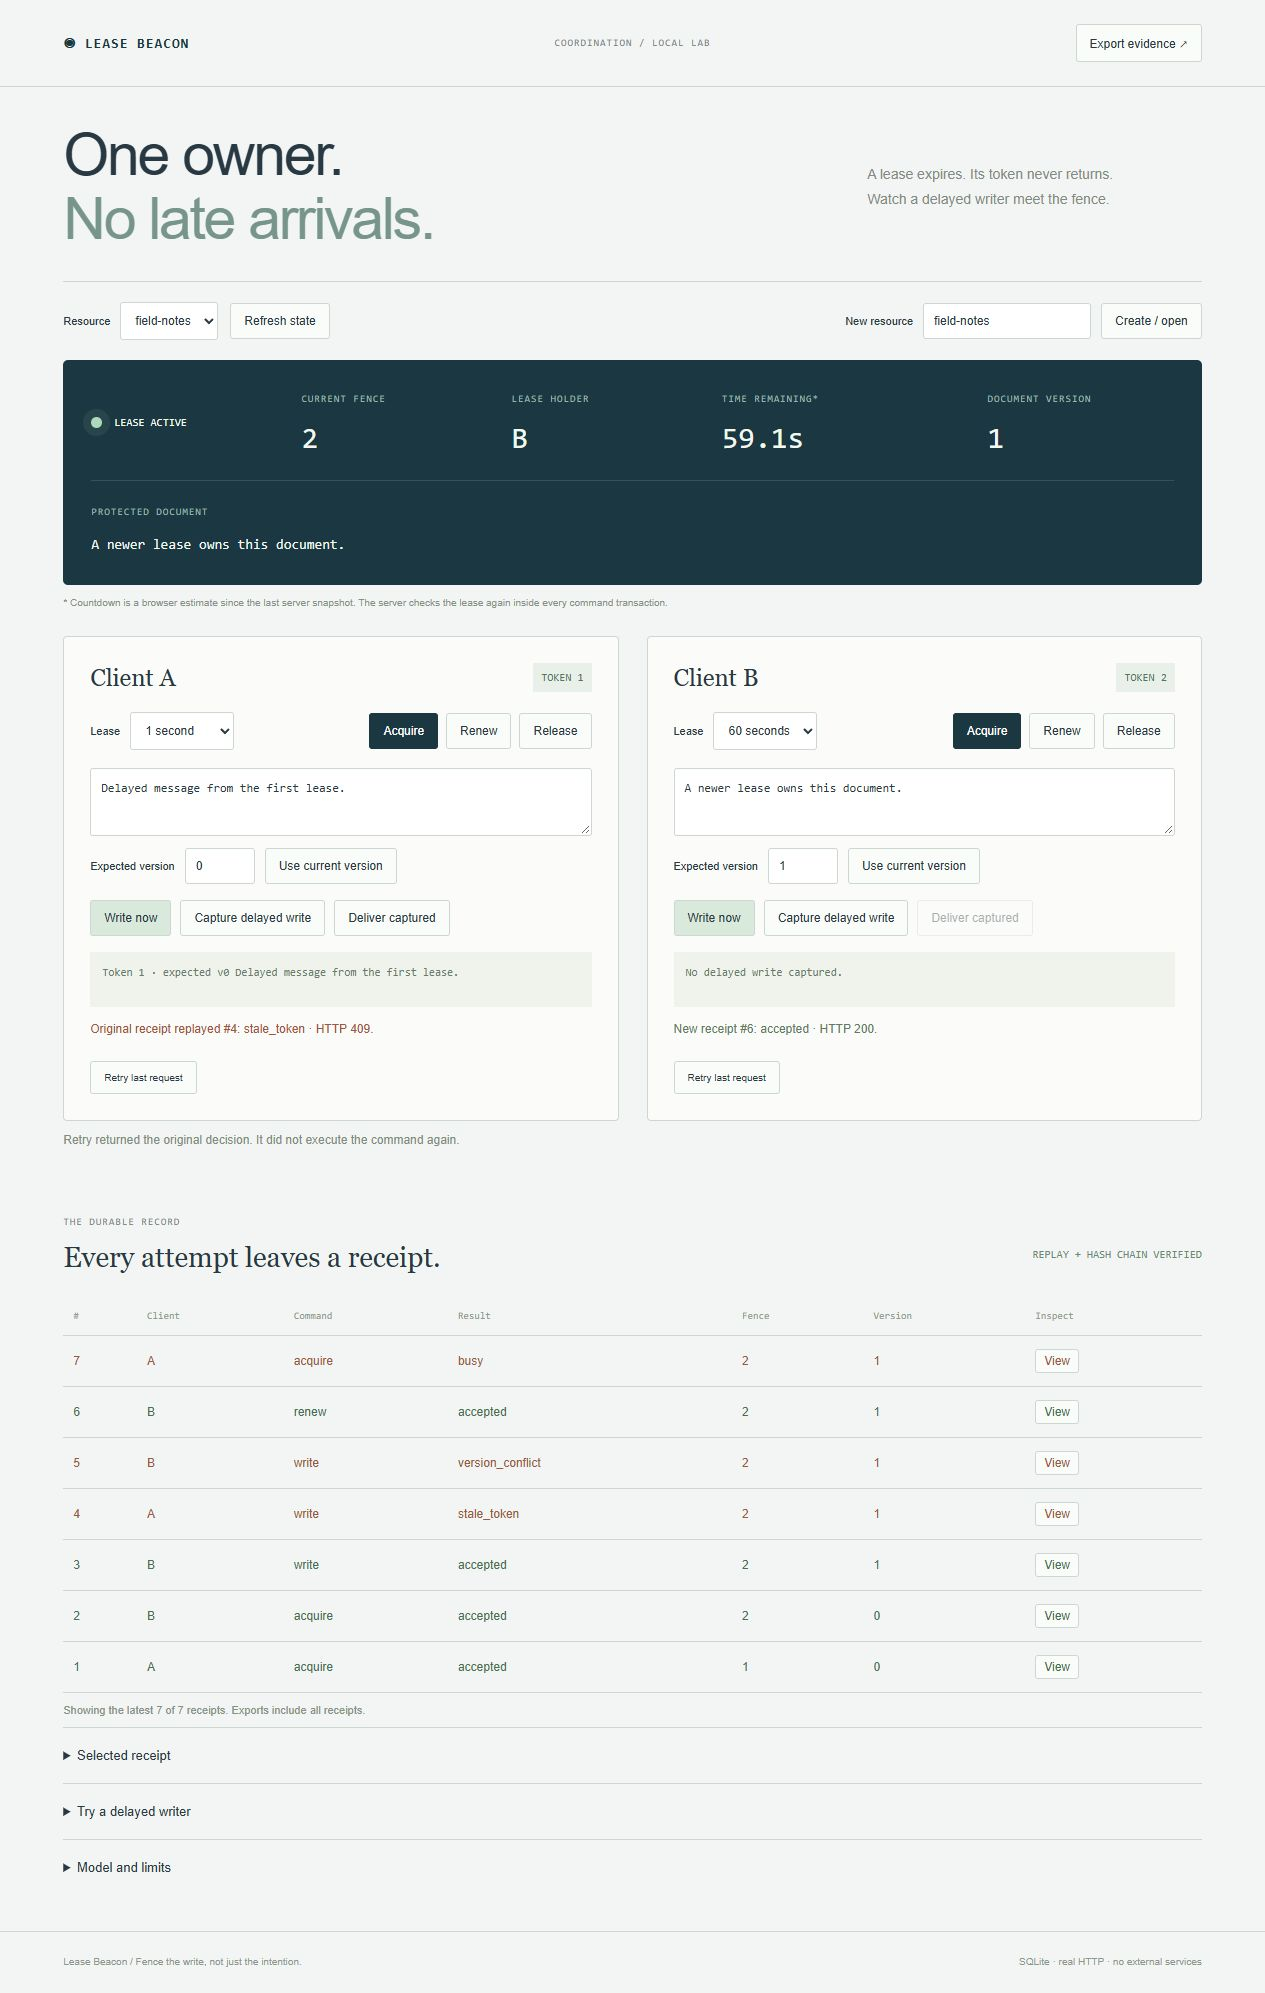
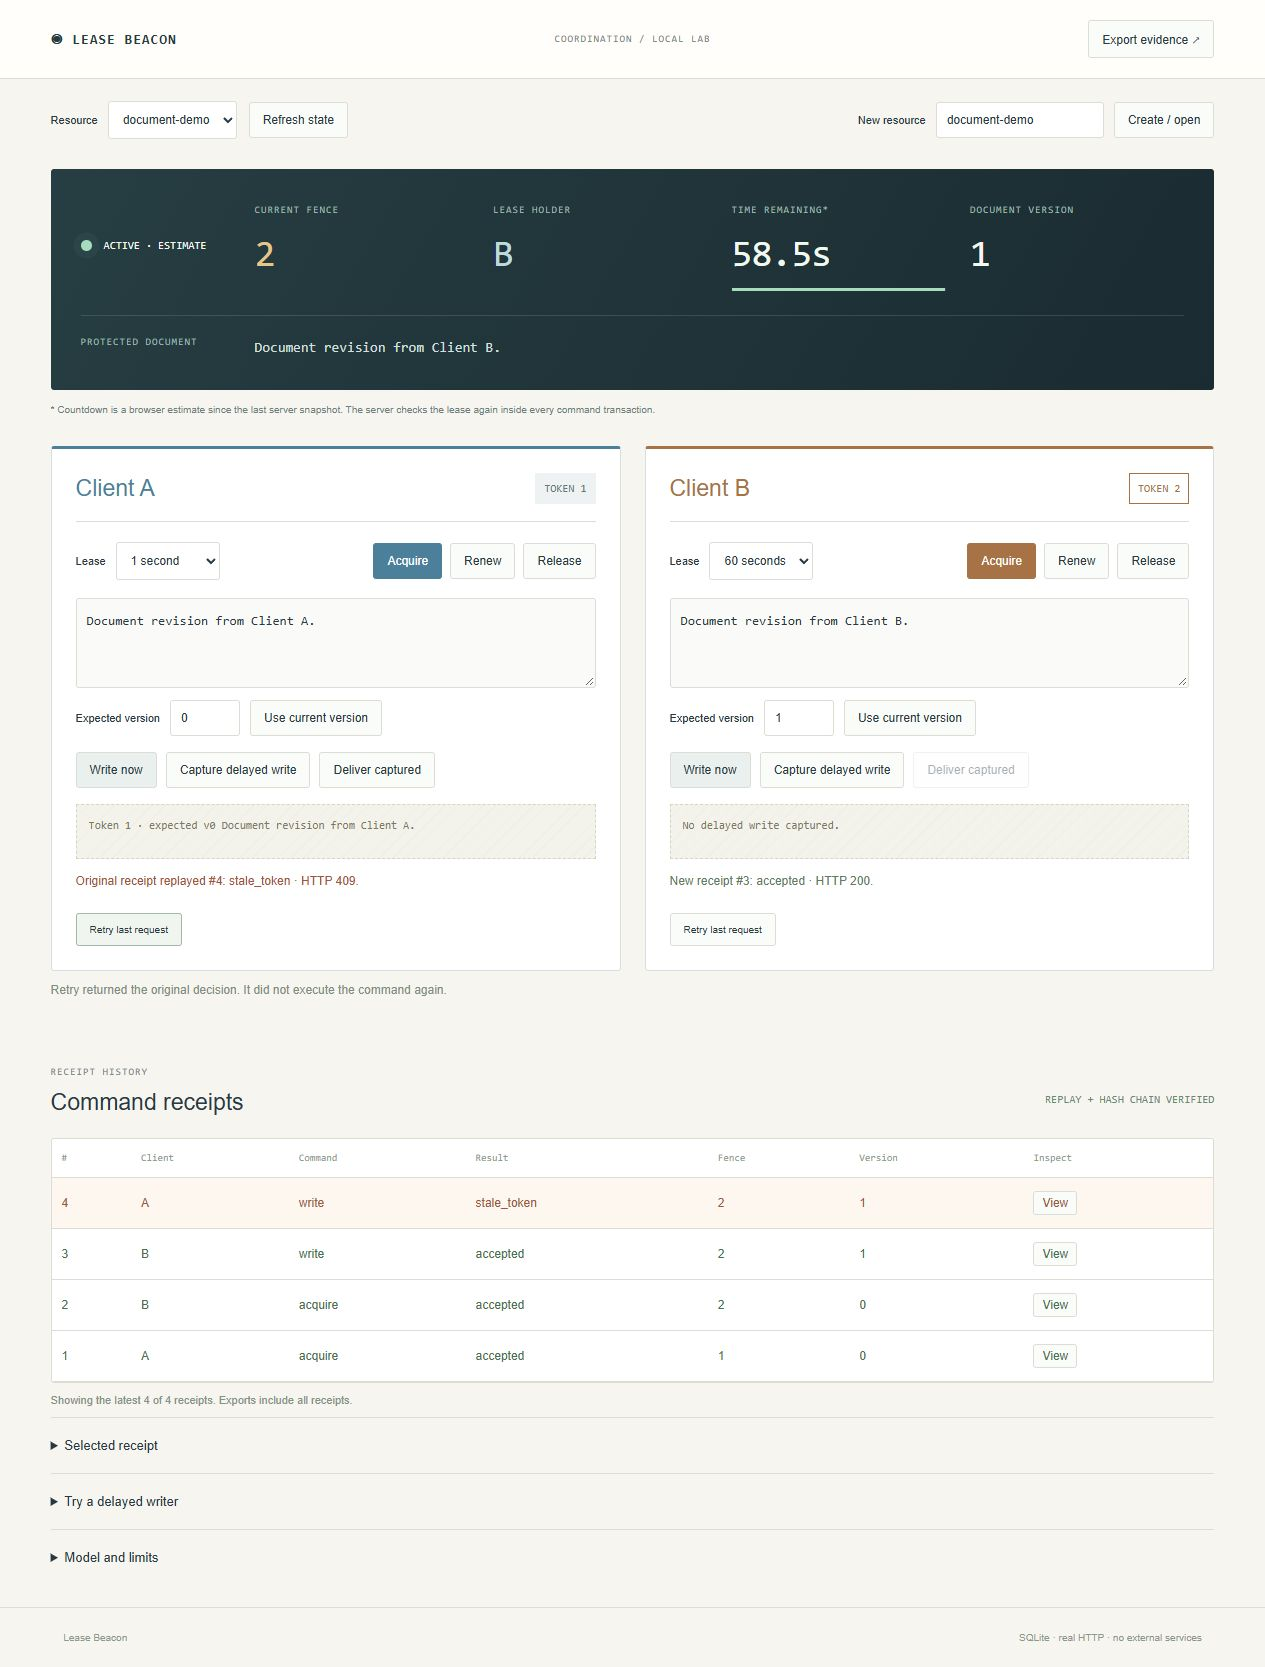
Clarify lease authority with client colors and estimated expiry display

diff --git a/app.js b/app.js
@@ -30,7 +30,8 @@ async function api(path, body) {
 function clientUI(c) {
   const section = document.createElement("section");
   section.className = "client";
-  section.innerHTML = `<div class="client-head"><h2>Client ${c.holder}</h2><span class="token" id="token-${c.holder}">NO TOKEN</span></div><div class="lease-actions"><label>Lease<select id="ttl-${c.holder}"><option value="1000">1 second</option><option value="5000" selected>5 seconds</option><option value="15000">15 seconds</option><option value="60000">60 seconds</option></select></label><button data-action="acquire">Acquire</button><button data-action="renew">Renew</button><button data-action="release">Release</button></div><textarea id="value-${c.holder}" aria-label="Client ${c.holder} document value" maxlength="2048">A note from Client ${c.holder}.</textarea><div class="version-controls"><label>Expected version<input id="expected-${c.holder}" type="number" min="0" max="1000000000" value="0" aria-label="Client ${c.holder} expected version"></label><button data-action="sync">Use current version</button></div><div class="write-actions"><button data-action="write">Write now</button><button data-action="capture">Capture delayed write</button><button data-action="deliver">Deliver captured</button></div><div class="capture" id="captured-${c.holder}">No delayed write captured.</div><p class="last-result" id="result-${c.holder}"></p><footer><button data-action="retry">Retry last request</button></footer>`;
+  section.dataset.client = c.holder;
+  section.innerHTML = `<div class="client-head"><h2>Client ${c.holder}</h2><span class="token" id="token-${c.holder}">NO TOKEN</span></div><div class="lease-actions"><label>Lease<select id="ttl-${c.holder}"><option value="1000">1 second</option><option value="5000" selected>5 seconds</option><option value="15000">15 seconds</option><option value="60000">60 seconds</option></select></label><button data-action="acquire">Acquire</button><button data-action="renew">Renew</button><button data-action="release">Release</button></div><textarea id="value-${c.holder}" aria-label="Client ${c.holder} document value" maxlength="2048">Document revision from Client ${c.holder}.</textarea><div class="version-controls"><label>Expected version<input id="expected-${c.holder}" type="number" min="0" max="1000000000" value="0" aria-label="Client ${c.holder} expected version"></label><button data-action="sync">Use current version</button></div><div class="write-actions"><button data-action="write">Write now</button><button data-action="capture">Capture delayed write</button><button data-action="deliver">Deliver captured</button></div><div class="capture" id="captured-${c.holder}">No delayed write captured.</div><p class="last-result" id="result-${c.holder}"></p><footer><button data-action="retry">Retry last request</button></footer>`;
   for (const b of section.querySelectorAll("[data-action]"))
     b.onclick = () => act(c, b.dataset.action);
   c.section = section;
@@ -65,8 +66,21 @@ function countdown() {
     snapshot.remaining_ms - (performance.now() - received),
   );
   $("remaining").textContent = (remaining / 1000).toFixed(1) + "s";
-  $("lease-state").textContent =
-    snapshot.state.holder && remaining > 0 ? "LEASE ACTIVE" : "AVAILABLE";
+  const active = Boolean(snapshot.state.holder && remaining > 0);
+  $("lease-state").textContent = active
+    ? "ACTIVE · ESTIMATE"
+    : snapshot.state.holder
+      ? "EXPIRED · ESTIMATE"
+      : "NO LEASE";
+  document.querySelector(".authority").dataset.active = String(active);
+  $("lease-fill").style.width =
+    `${snapshot.remaining_ms > 0 ? (100 * remaining) / snapshot.remaining_ms : 0}%`;
+  for (const c of clients)
+    c.section.dataset.owner = String(
+      active &&
+        snapshot.state.holder === c.holder &&
+        snapshot.state.fence === c.token,
+    );
 }
 setInterval(countdown, 200);
 function render() {

diff --git a/style.css b/style.css
@@ -418,3 +418,192 @@ body > footer {
     letter-spacing: -1px;
   }
 }
+
+/* Shared authority and independent client consoles */
+:root {
+  background: #f6f5f0;
+  --line: #dcded6;
+  --ink: #233b41;
+}
+header {
+  background: #fffefa;
+  padding: 20px 4%;
+}
+main {
+  padding: 22px 4%;
+}
+.resource-bar {
+  border-top: 0;
+  padding-top: 0;
+  margin-bottom: 10px;
+}
+.authority {
+  grid-template-columns: 150px repeat(4, minmax(0, 1fr));
+  background: linear-gradient(120deg, #223d43, #172b31);
+  border-radius: 3px;
+  gap: 24px;
+  padding: 30px;
+}
+.authority strong {
+  font-size: 38px;
+  letter-spacing: -1px;
+}
+#fence {
+  color: #e7c98a;
+}
+#holder {
+  color: #bad9dc;
+}
+.beacon span {
+  background: #7f9090;
+  box-shadow: none;
+}
+.authority[data-active="true"] .beacon span {
+  background: #9bddbd;
+  animation: lease-pulse 2s ease-in-out infinite;
+}
+@keyframes lease-pulse {
+  0%,
+  100% {
+    box-shadow: 0 0 0 5px #9bddbd12;
+  }
+  50% {
+    box-shadow: 0 0 0 10px #9bddbd08;
+  }
+}
+.lease-track {
+  height: 3px;
+  background: #ffffff18;
+  margin-top: 12px;
+  overflow: hidden;
+}
+#lease-fill {
+  height: 100%;
+  width: 0;
+  background: #9bddbd;
+  transition: width 0.2s linear;
+}
+.document {
+  display: grid;
+  grid-template-columns: 150px 1fr;
+  gap: 24px;
+  align-items: start;
+}
+.document pre {
+  margin: 0;
+  color: #d1e0df;
+}
+.clock-note {
+  color: #6e7e7e;
+  line-height: 1.6;
+}
+.clients {
+  gap: 24px;
+}
+.client {
+  --client-accent: #427f9a;
+  padding: 24px;
+  border-radius: 3px;
+  border: 1px solid #d7dee0;
+  border-top: 3px solid var(--client-accent);
+  background: #fff;
+}
+.client[data-client="B"] {
+  --client-accent: #ac7545;
+}
+.client-head {
+  padding-bottom: 17px;
+  border-bottom: 1px solid var(--line);
+}
+.client-head h2 {
+  font:
+    500 23px Arial,
+    sans-serif;
+  color: var(--client-accent);
+}
+.token {
+  background: #eff2f3;
+  color: #637879;
+  border: 1px solid transparent;
+}
+.client[data-owner="true"] .token {
+  border-color: var(--client-accent);
+  color: var(--client-accent);
+  background: #fff;
+}
+.client textarea {
+  min-height: 90px;
+  background: #fafbf9;
+  font-size: 13px;
+  line-height: 1.8;
+}
+.lease-actions button:first-of-type {
+  background: var(--client-accent);
+  border-color: var(--client-accent);
+}
+.capture {
+  background: repeating-linear-gradient(135deg, #f3f2eb 0 8px, #efeee7 8px 9px);
+  border: 1px dashed #d8d5c6;
+  color: #7d7966;
+}
+.write-actions button:first-child {
+  background: #e9f0ed;
+}
+.section-head h2 {
+  font:
+    500 23px Arial,
+    sans-serif;
+  margin: 10px 0 22px;
+}
+.table-wrap {
+  background: #fff;
+  border: 1px solid var(--line);
+  border-radius: 3px;
+}
+.denied-row {
+  background: #fff7f0;
+}
+button {
+  transition:
+    background 0.16s,
+    border-color 0.16s;
+}
+.version-controls {
+  flex-wrap: wrap;
+}
+@media (max-width: 900px) {
+  .authority {
+    grid-template-columns: repeat(3, minmax(0, 1fr));
+  }
+  .document {
+    grid-template-columns: 1fr;
+    gap: 12px;
+  }
+}
+@media (max-width: 600px) {
+  .authority {
+    grid-template-columns: 1fr 1fr;
+    padding: 22px;
+  }
+  .authority strong {
+    font-size: 30px;
+  }
+  header {
+    flex-wrap: wrap;
+  }
+  .resource-bar label {
+    flex-wrap: wrap;
+  }
+  .resource-bar input {
+    max-width: 100%;
+  }
+  .client {
+    padding: 18px;
+  }
+}
+@media (prefers-reduced-motion: reduce) {
+  * {
+    transition: none !important;
+    animation: none !important;
+  }
+}

diff --git a/index.html b/index.html
@@ -13,13 +13,6 @@
       ><button id="export">Export evidence ↗</button>
     </header>
     <main>
-      <section class="intro">
-        <h1>One owner.<br /><span>No late arrivals.</span></h1>
-        <p>
-          A lease expires. Its token never returns.<br />Watch a delayed writer
-          meet the fence.
-        </p>
-      </section>
       <section class="resource-bar">
         <label>Resource<select id="resources"></select></label
         ><button id="refresh">Refresh state</button>
@@ -43,6 +36,9 @@
         <div><small>LEASE HOLDER</small><strong id="holder">—</strong></div>
         <div>
           <small>TIME REMAINING*</small><strong id="remaining">—</strong>
+          <div class="lease-track" aria-hidden="true">
+            <div id="lease-fill"></div>
+          </div>
         </div>
         <div>
           <small>DOCUMENT VERSION</small><strong id="version">0</strong>
@@ -62,8 +58,8 @@
       <section class="ledger">
         <div class="section-head">
           <div>
-            <small>THE DURABLE RECORD</small>
-            <h2>Every attempt leaves a receipt.</h2>
+            <small>RECEIPT HISTORY</small>
+            <h2>Command receipts</h2>
           </div>
           <span id="audit"></span>
         </div>
@@ -140,9 +136,7 @@
       </section>
     </main>
     <footer>
-      Lease Beacon / Fence the write, not just the intention.<span
-        >SQLite · real HTTP · no external services</span
-      >
+      Lease Beacon<span>SQLite · real HTTP · no external services</span>
     </footer>
   </body>
 </html>

diff --git a/README.md b/README.md
@@ -4,6 +4,8 @@ A local coordination workbench with expiring leases, monotonically increasing fe
 
 ![A delayed writer rejected after takeover](docs/workbench.png)
 
+The shared authority panel sits above two independently colored client consoles. The current token holder is highlighted while the browser estimates an active lease; the countdown bar shows the fraction of remaining time from the most recent snapshot. Expiry is explicitly labeled as an estimate. Reduced-motion settings disable the beacon pulse and bar transition.
+
 ## Run
 
 Python 3.10+; Node 22+ only for JavaScript syntax checks. No runtime packages or external services.
